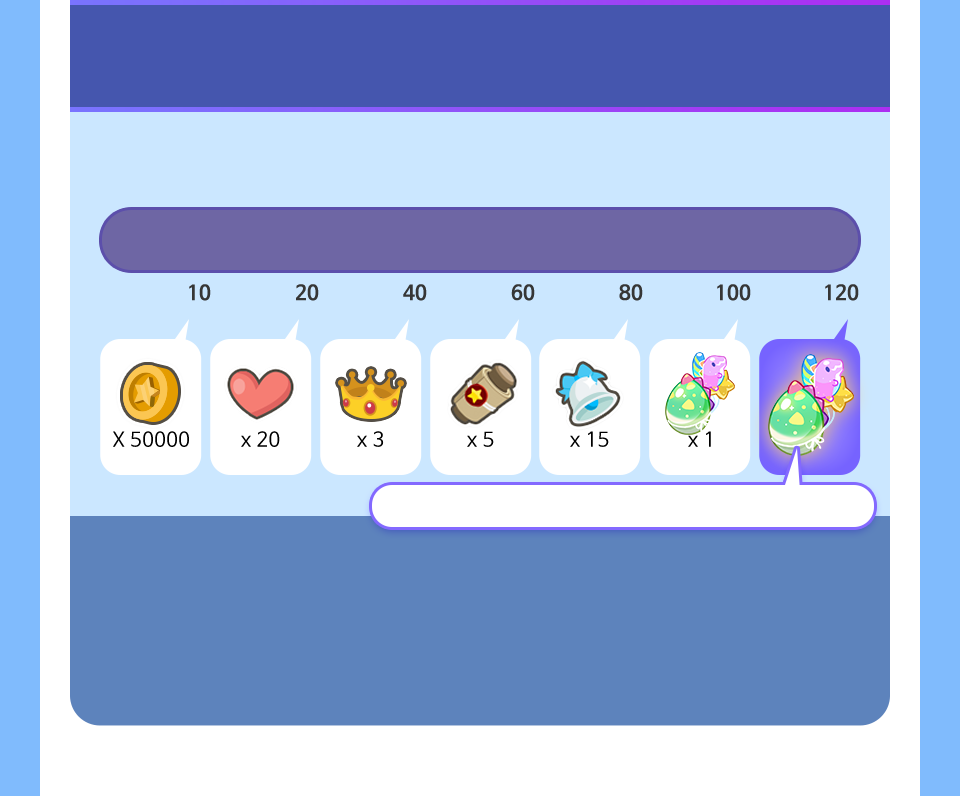
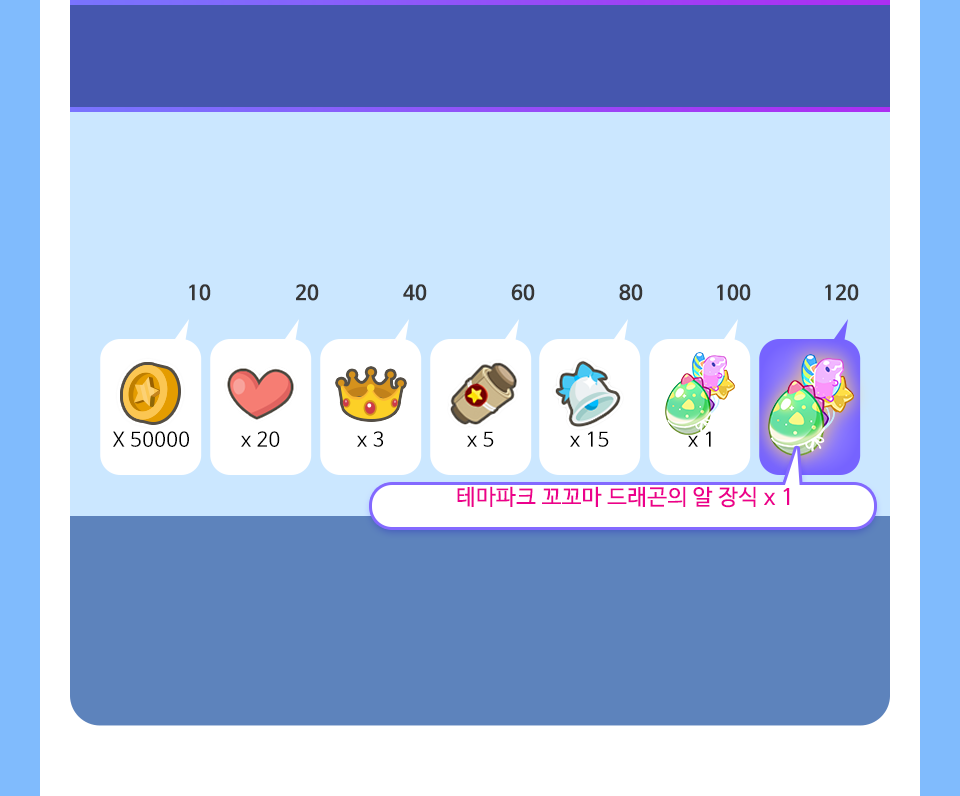
컴투스 이벤트 중간저장

diff --git a/test_page01.html b/test_page01.html
@@ -7,27 +7,6 @@
 <link rel="stylesheet" href="/css/base.css" />
 <link rel="stylesheet" href="/css/event.css" />
 
-<style>
-/* base */
-#Header {display:none}
-#Section {padding:0}
-/* common */
-.event-section {position:relative;width:100%;height:100%}
-.event-section__inner {position:relative;height:100%}
-.event-image {display:block;width:100%;vertical-align:top;image-rendering:-webkit-optimize-contrast}
-.event-email {text-decoration:underline !important;color:#ffd200 !important}
-.event-info-modify {display:inline-block;margin-top:6px;padding:6px 7px;border:1px solid #999}
-/* 유의사항 */
-.event-section__inner--caution {padding:30px 20px;box-sizing:border-box;background-color:#333}
-.event-section__caution-title {font-size:4.4vw;font-weight:bold;color:#ddd}
-.event-section__caution-list {margin-top:12px}
-.event-section__caution-item {position:relative;margin-top:10px;padding-left:2.5%;font-size:3.6vw;letter-spacing:0.05em;color:#999}
-.event-section__caution-item:first-child {margin-top:0}
-.event-section__caution-item--title {padding-left:0;margin-top:15px}
-.event-section__caution-item>a {font-size:3.6vw;color:#999}
-.item-dot {position:absolute;top:0;left:0;font-weight:bold;font-size:3.6vw;color:#999}
-</style>
-
 <!-- Section -->
 <section id="Section">
 
@@ -63,6 +42,115 @@
             </ul>
 		</div>
 	</div>
+
+	<div class="event-section event-section--3">
+		<div class="event-section__inner event-section__inner--3">
+			<h1><img class="event-image" src="img/m_event03.png" alt="2.타이니팜 에어바운스 존 오픈"></h1>
+            <p class="event-title">2. 타이니팜 에어바운스 존 오픈</p>
+            <p class="event-text">
+                <strong>공룡 테마 파크</strong>에 어린이 동물들이 신나게 뛰어 놀 수 있는<br/>
+                <strong>공룡 테마 에어바운스 존</strong>이 오픈했어요!<br/>  
+                <strong>공룡 테마 에어바운스 존</strong>을 이용하려면 <strong>에어바운스 입장권</strong>이 필요해요!<br/>
+                <strong>에어바운스 입장권</strong>은 <strong>당일 11:00~익일 11:00 까지 진행되는 다양한 미션들을 완료 시</strong><br/> 
+                <strong>미션 당 1개의 입장권을 획득</strong> 할 수 있어요!<br/>
+                이 외에도 미션 달성 시 다양한 보상도 획득할 수 있어요!<br/>
+                지금 바로 <strong>공룡옷 동물들</strong>과 함께 미션에 참여해 볼까요?<br/>
+                @@@@@@@@@@@@@@@@@@@@@@@@@@@@@@@@@
+            </p>
+             <p class="event-ticket"><em class="hide">에어바운스 입장권 보유 수</em>1000000</p>
+            <ul class="event-stamp">
+                <li class="event-stamp__list on">
+                    <span>
+                        <img src="./img/stamp_common.png" alt="이미 획득하였습니다 스탬프">
+                    </span>
+                    <p> 모험가의 오두막에서<br/> 모험 완료하기 3회<br/> <strong>(3/3)</strong> </p>
+                </li>
+                 <li class="event-stamp__list">
+                    <span><img src="./img/stamp_common.png" alt="이미 획득하였습니다 스탬프"></span>
+                   <p>  동물 고배하기 1회<br/> <strong>(0/1)</strong> </p>
+                </li>
+                <li class="event-stamp__list">
+                    <span><img src="./img/stamp_common.png" alt="이미 획득하였습니다 스탬프"></span>
+                    <p>이벤트 럭키백 뽑기 1회<br/><strong>(0/1)</strong></p>
+                </li>
+                <li class="event-stamp__list on">
+                    <span><img src="./img/stamp_common.png" alt="이미 획득하였습니다 스탬프"></span>
+                    <p>벨TV 광고 보고 <br/> 보상받기 10회 <br/><strong>(10/10)</strong></p>
+                </li>
+                <li class="event-stamp__list on">
+                    <span><img src="./img/stamp_common.png" alt="이미 획득하였습니다 스탬프"></span>
+                    <p>요리 만들기 5회<br/><strong>(5/5)</strong></p>
+                </li>
+                <li class="event-stamp__list">
+                    <span><img src="./img/stamp_common.png" alt="이미 획득하였습니다 스탬프"></span>
+                    <p>농장 동물들에게 <br/> 밥주기 30회<br/><strong>(0/30)</strong></p>
+                </li>               
+                <li class="event-stamp__list">
+                    <span><img src="./img/stamp_common.png" alt="이미 획득하였습니다 스탬프"></span>
+                    <p>농민 협회에 요리 <br/> 판매 하기 5회 <br/> <strong>(0/5)</strong></p>
+                </li>  
+                <li class="event-stamp__list on">
+                    <span><img src="./img/stamp_common.png" alt="이미 획득하였습니다 스탬프"></span>
+                    <p>마을 출석하기 1회<br/> <strong>(1/1)</strong></p>
+                </li>               
+            </ul>
+		</div>
+	</div>    
+
+	<div class="event-section event-section--4">
+		<div class="event-section__inner event-section__inner--4">
+			<h1><img class="event-image" src="img/m_event04.png" alt="★추가 이벤트! 에어바운스존 이용 고객님~선물 받아가세요♥"></h1>
+            <p class="event-title">★추가 이벤트! <br/> 에어바운스존 이용 고객님~선물 받아가세요♥</p>
+            <p class="event-text">
+          <strong>공룡 테마 에어바운스 존</strong>에서 입장권 획득 개수에 따라 추가 선물을 준비했어요!<br/>
+            @@@@@@@@@@@@@@@@@@@@@@@@@
+            </p>
+            <div class="event-graph">
+                <img src="/img/graph_0.png" alt="그래프 0" class="on">
+                <img src="/img/graph_1.png" alt="그래프 10" >
+                <img src="/img/graph_2.png" alt="그래프 20" >
+                <img src="/img/graph_3.png" alt="그래프 40" class="on">
+                <img src="/img/graph_4.png" alt="그래프 60">
+                <img src="/img/graph_5.png" alt="그래프 80">
+                <img src="/img/graph_6.png" alt="그래프 100">
+                <img src="/img/graph_7.png" alt="그래프 120">
+            </div>
+            <ul class="event-stamp">
+                <li class="event-stamp__list on">
+                        <img src="./img/stamp_common.png" alt="이미 획득하였습니다 스탬프">
+                </li>
+                <li class="event-stamp__list on">
+                        <img src="./img/stamp_common.png" alt="이미 획득하였습니다 스탬프">
+                </li>
+                <li class="event-stamp__list on">
+                        <img src="./img/stamp_common.png" alt="이미 획득하였습니다 스탬프">
+                </li>
+                <li class="event-stamp__list ">
+                        <img src="./img/stamp_common.png" alt="이미 획득하였습니다 스탬프">
+                </li>
+                 <li class="event-stamp__list ">
+                        <img src="./img/stamp_common.png" alt="이미 획득하였습니다 스탬프">
+                </li>
+                <li class="event-stamp__list ">
+                        <img src="./img/stamp_common.png" alt="이미 획득하였습니다 스탬프">
+                </li>
+                <li class="event-stamp__list ">
+                        <img src="./img/stamp_common.png" alt="이미 획득하였습니다 스탬프">
+                </li>
+                 
+             
+            </ul>
+            <ul class="event-notice">
+                <li><span>*</span> 각 미션 참여 횟수는 매일 오전 11시에 갱신 돼요! <br/>
+  (단, 마을 출석하기, 벨 tv 광고 보고 보상 받기 미션의 경우 점검 이전에 이미 모두 달성 시 <br/>
+   점검 후 입장권이 자동 지급 돼요.) </li>
+                <li><span>*</span> 입장권 획득 개수에 따른 선물은 달성 즉시 선물함으로 지급돼요. </li>
+                <li><span>*</span> 패키지 구매로 획득한 테마파크 꼬꼬마 드래곤은 선착순 조건에 해당되지 않아요.</li>
+                <li>@@@@@@@@@@@@@@@@@@@@@@@@@@@@@@@<br/>@@@@@@@@@@@@@@@@@@@@@@@@@@@@@@@</li>
+            </ul>
+		</div>
+	</div>
+
 
 	<!-- 유의사항 -->
 	<div class="event-section event-section--caution">

diff --git a/css/event.css b/css/event.css
@@ -19,7 +19,7 @@
     position: absolute;
     top: 3.2%;
     left: 50%;
-    font-size: 3.6vw;
+    font-size: 3.5vw;
     letter-spacing: -0.5px;
     color: #4e49f1;
     font-family: 'NanumBarunGothicBold';
@@ -61,6 +61,74 @@ position: absolute;
     font-size: 2vw;
     color: #fff;}
 
+.event-section__inner--3 .event-title {top:0}
+.event-section__inner--3 .event-text {top: 8.9%;
+    letter-spacing: -0.2px}
+.event-ticket  {    position: absolute;
+    top: 38.8%;
+    left: 29%;
+    width: 15%;
+    text-align:center;
+    font-size: 4.4vw;
+    letter-spacing: -1.8px;
+    color: #ffff6b;
+  }
+
+.event-stamp{    display: flex
+;
+    flex-wrap: wrap;
+    width: 82%;
+    position: absolute;
+    bottom: 6%;
+    left: 11%;
+}
+.event-stamp__list {    display: flex
+;
+    align-items: center;
+    width: 50%;
+    margin-top: 4%;}
+    .event-stamp__list.on img {display:block;}
+.event-stamp__list img {display:none;width:9vw;height:9vw}
+.event-stamp__list span {min-width:9vw;min-height:9vw;}
+.event-stamp__list p {    font-size: 2vw;
+    width: calc(100% - 30%);
+    text-align: center;
+color:#fff;}
+.event-stamp__list strong {   
+color:#ffff6b;font-weight:normal;}
+
+
+.event-section__inner--4 .event-title { top: 1.7%;
+    text-align: center;
+    width: 100%;
+    letter-spacing: -1.2px;
+    color: #ffff6b;
+    font-size: 3.4vw;}
+
+.event-section__inner--4 .event-text {top: 16.6%;    letter-spacing: -0.4px;}
+
+.event-graph {    position: absolute;
+    position: absolute;
+    top: 26%;
+    width: 79.3%;
+    left: 10.3%;
+    height: 8.2%;
+}
+.event-graph img {display:none;position:absolute;left: 0;max-width:100%;height:100%;}
+.event-graph img.on {display:block;}
+
+.event-section__inner--4 .event-stamp {    flex-wrap: nowrap;
+    top: 43%;
+    height: 9vw;}
+.event-section__inner--4 .event-stamp__list{    width: 14%;
+    margin-top: 0%;}
+    .event-section__inner--4  .event-notice{
+            bottom: 10.5%;
+    left: 10.2%;
+    }
+ .event-section__inner--4  .event-notice li {
+    letter-spacing:0.38px;
+ }
 /* 유의사항 */
 .event-section__inner--caution {padding:30px 20px;box-sizing:border-box;background-color:#333}
 .event-section__caution-title {font-size:4.4vw;font-weight:bold;color:#ddd}
